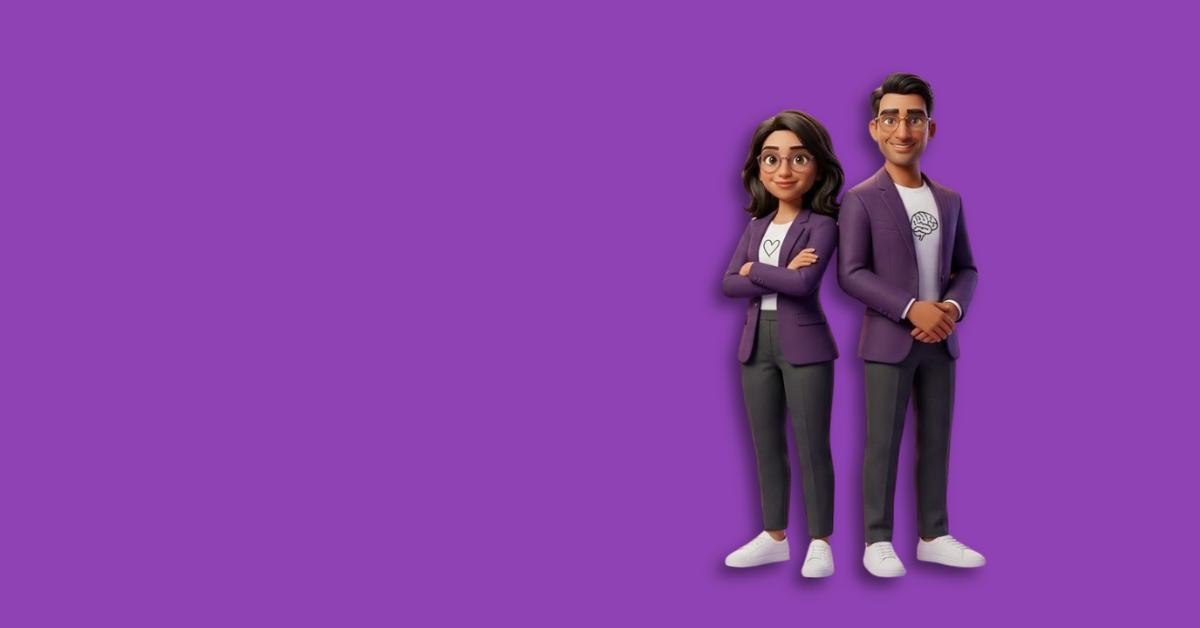
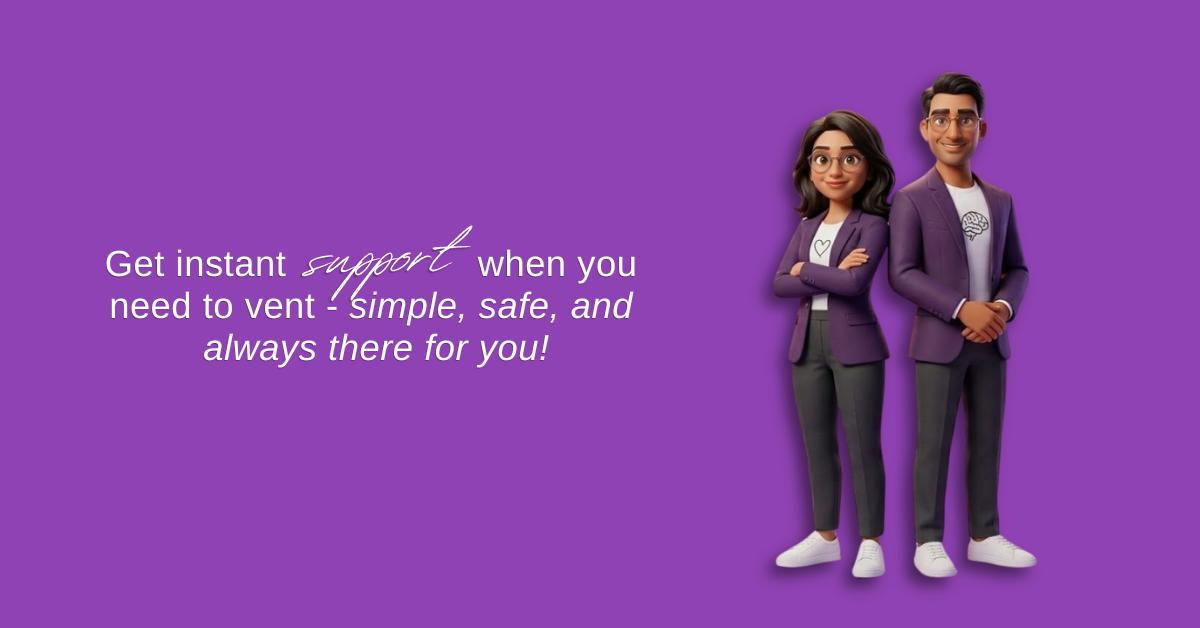
new

Changed region(s): [[0.5858, 0.0908, 0.8633, 0.9379], [0.0925, 0.3631, 0.5242, 0.5748]]

diff --git a/src/components/Home.jsx b/src/components/Home.jsx
@@ -154,7 +154,7 @@ export default function Home() {
                 <img
                   src={image}
                   alt="Mate & Mentors Support"
-                  className="rounded-2xl shadow-2xl w-full h-auto"
+                  className="rounded-2xl shadow-2xl w-full h-auto max-h-[300px] sm:max-h-[350px] md:max-h-[400px] lg:max-h-[600px] object-fit"
                 />
               </div>
             </div>
@@ -243,8 +243,6 @@ export default function Home() {
             <p className="text-xl text-white/90 mb-12">
               No waiting. No judgment. Just support that actually helps.
             </p>
-
-            {/* Dual CTA */}
             <div className="grid grid-cols-1 md:grid-cols-2 gap-6 max-w-2xl mx-auto">
               <button
                 onClick={() => navigate("/mate")}

diff --git a/src/components/Login.jsx b/src/components/Login.jsx
@@ -153,9 +153,9 @@ export default function Login() {
               <h1 className="text-3xl font-bold text-gray-900 mb-2">Welcome Back!</h1>
               <p className="text-gray-600">Login to continue your journey</p>
             </div>
-            <div >Get instant support when you need to vent - simple, safe, and always there for you.</div>
+           
 <img src={banner}/>
-          
+            {/* Role Selection */}
             <div className="mb-2">
               {/* <label className="block text-sm font-semibold text-gray-700 mb-3">
                 Select Login Type
